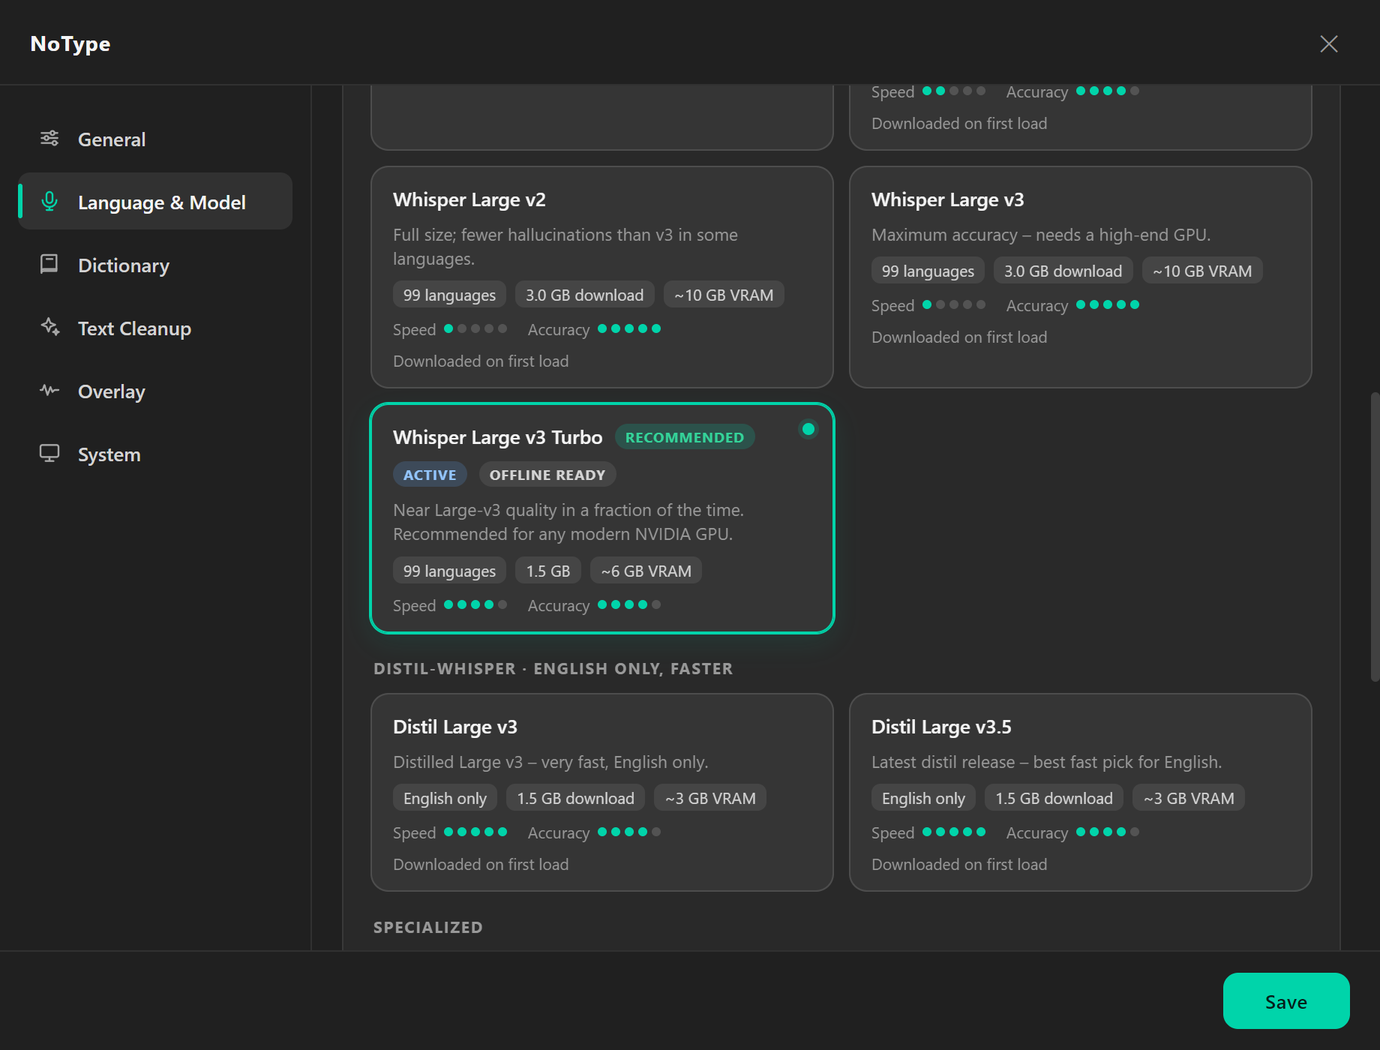
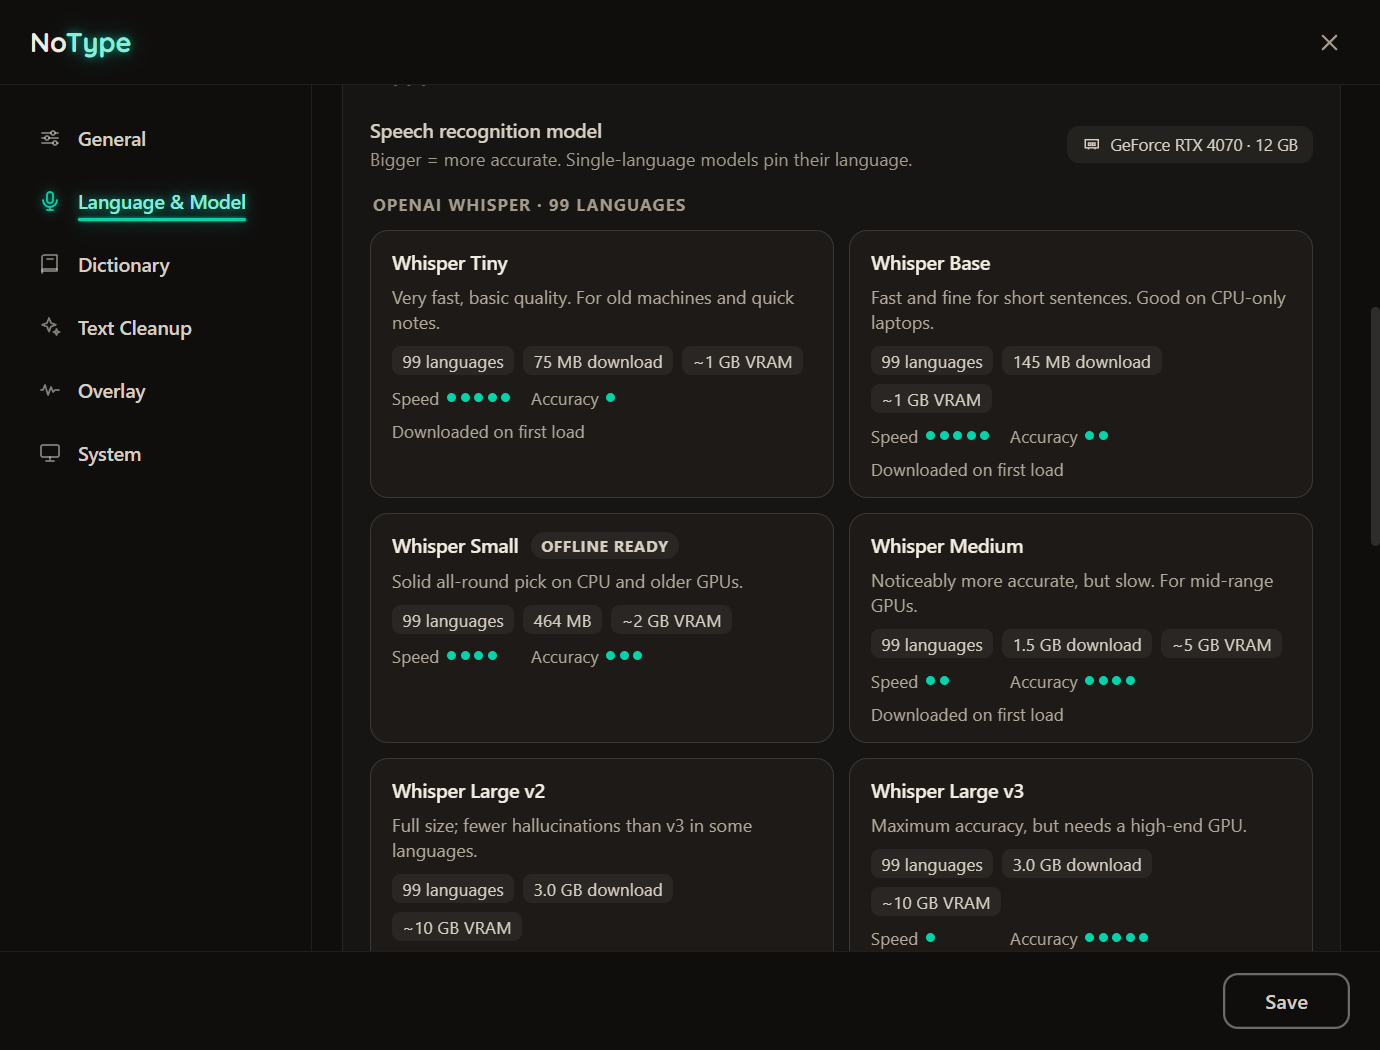
Update README and screenshots for 3.3.0

diff --git a/README.md b/README.md
@@ -141,6 +141,31 @@ Raw speech is messy: "uhm", false starts, missing punctuation. NoType cleans it 
 
 The AI engine ([Ollama](https://ollama.com/)) is installed **from inside NoType with one click**, without admin rights, into NoType's own folder. If the AI would take too long, or if it changes the meaning (for example by translating or answering your sentence), NoType inserts the fast version instead. You never wait on the AI.
 
+### Your languages, your mix
+
+Tell NoType which languages you speak under **Settings → Language & Model → My languages**, and how often if you like: for example 80 % German, 15 % English and 5 % Polish. Short sentences are where speech models most often pick the wrong language. NoType weighs what the model hears against your mix, so a quick "Okay, passt" stays German, while a full English sentence still comes out in English. Shares are optional. Leave one empty and it gets what is left of 100 %.
+
+Other languages are still recognized when they are unmistakable. Switch **Also recognize other languages** off and NoType picks only from your list. With a single language it then skips detection completely.
+
+### Say your punctuation
+
+Say "question mark", "comma" or "new line" and you get the character, not the word. This works in German, English and Polish, in whichever of them you are dictating:
+
+| You get | English | German | Polish |
+|---|---|---|---|
+| `?` | question mark | Fragezeichen | znak zapytania |
+| `!` | exclamation mark, exclamation point | Ausrufezeichen | wykrzyknik |
+| `,` | comma | Komma | przecinek |
+| `.` | period, full stop | Punkt | kropka |
+| `:` | colon | Doppelpunkt | dwukropek |
+| `;` | semicolon | Semikolon, Strichpunkt | średnik |
+| line break | new line, next line, line break | neue Zeile, nächste Zeile, Zeilenumbruch | nowa linia, nowy wiersz, następna linia |
+| empty line | new paragraph, next paragraph | neuer Absatz, nächster Absatz | nowy akapit, następny akapit |
+| `(` `)` | open bracket, close bracket (or parenthesis) | Klammer auf, Klammer zu | otwórz nawias, zamknij nawias |
+| quotes | open quote, close quote, end quote | Anführungszeichen unten / oben (or auf / zu) | otwórz cudzysłów, zamknij cudzysłów |
+
+Words that also have a normal meaning stay words where they are meant that way: "an important point", "the trial period" and "um Punkt acht" are left alone. "Period", "colon", "Punkt" and "kropka" count as punctuation when you say them on their own, at the very end, or right before another command ("period, new paragraph"). Switch the feature off under **Settings → Text Cleanup**.
+
 ### Agent hotkey: send your dictation to a URL
 
 Off by default. Switch it on under **Settings → General → Agent hotkey** and enter a URL. From then on a second hotkey (<kbd>Ctrl</kbd> + <kbd>Shift</kbd> + <kbd>Alt</kbd> + <kbd>Space</kbd>, in the same hold or press mode as dictation) sends what you say to that URL instead of typing it, for example to an [n8n](https://n8n.io/) webhook or your own script or assistant. Whatever the URL answers shows in the overlay for a few seconds.
@@ -203,7 +228,7 @@ Replies are cut to 200 characters on one line; a long one scrolls through once. 
 
 <table>
 <tr>
-<td width="50%"><img src="docs/assets/settings-models.png" alt="Speech model cards with recommendation for your GPU" /></td>
+<td width="50%"><img src="docs/assets/settings-models.png" alt="Speech model cards next to the detected graphics card" /></td>
 <td width="50%"><img src="docs/assets/settings-dictionary.png" alt="Dictionary with learned corrections" /></td>
 </tr>
 <tr>
@@ -216,7 +241,7 @@ Replies are cut to 200 characters on one line; a long one scrolls through once. 
 </tr>
 <tr>
 <td><sub><b>Command mode:</b> its own shortcut, can be switched off</sub></td>
-<td><sub><b>Text cleanup:</b> Off, Fast or AI, plus one-click AI engine install</sub></td>
+<td><sub><b>Text cleanup:</b> Off, Fast or AI, plus spoken punctuation</sub></td>
 </tr>
 </table>
 
@@ -228,7 +253,8 @@ Replies are cut to 200 characters on one line; a long one scrolls through once. 
 - **History and stats:** your last dictations and daily word counts are one click away in the system tray.
 - **Starts with Windows if you want:** NoType then waits in the tray after you sign in. Switch it on or off under **Settings → General** or right in the tray menu.
 - **Updates with one click:** when a new version is out, a small notice offers it. Click **Update now** and NoType downloads it in the background, installs it and starts again, with your settings and dictionary as they were. It never restarts in the middle of a dictation. The portable ZIP links you to the download page instead.
-- **No invented words:** background noise does not turn into imaginary sentences. Repetitive and low-confidence output is dropped before it reaches your screen.
+- **No invented words:** background noise does not turn into imaginary sentences. The phrases speech models like to make up from silence, such as "Thanks for watching!" or subtitle credits, are filtered out in ten languages, and repetitive or low-confidence output is dropped before it reaches your screen.
+- **Long dictations, faster:** on an NVIDIA card, anything over 30 seconds is transcribed in parallel chunks. An 80 second dictation takes about 3.3 instead of 4.7 seconds, with the same text.
 - **Works in stubborn apps:** if pasting is blocked (some terminals, remote desktops), NoType types the text key by key instead.
 - **English or German interface:** switch any time under **Settings → General**.
 
@@ -364,6 +390,15 @@ Fix the word once where you dictated it, and click **Learn** when NoType asks. Y
 </details>
 
 <details>
+<summary><b>Short sentences come out in the wrong language</b></summary>
+
+<br/>
+
+Add the languages you speak under **Settings → Language & Model → My languages**, with a share for the one you use most. If you never dictate in anything else, switch **Also recognize other languages** off.
+
+</details>
+
+<details>
 <summary><b>Command mode writes new text instead of changing my selection</b></summary>
 
 <br/>
@@ -467,7 +502,9 @@ npm run build:dir                            # → dist/win-unpacked/ (portable)
 NoType/
 ├── backend.py            # IPC loop, recording, transcription orchestration
 ├── audio_recorder.py     # sounddevice capture, spectrum bands, rolling preview window
-├── transcriber.py        # faster-whisper wrapper, model cache, cuBLAS fallback
+├── transcriber.py        # faster-whisper wrapper, language mix, batched long dictations, cuBLAS fallback
+├── hallucinations.py     # known Whisper hallucinations ("Thanks for watching!", subtitle credits)
+├── spoken_punctuation.py # "question mark", "neue Zeile" … become characters (de, en, pl)
 ├── postprocess.py        # rule cleanup + local LLM polish and command mode via Ollama
 ├── dictionary.py         # learned corrections ("heard → meant"), applied to every dictation
 ├── correction_watch.py   # spots fixes typed right after a dictation (UI Automation)
